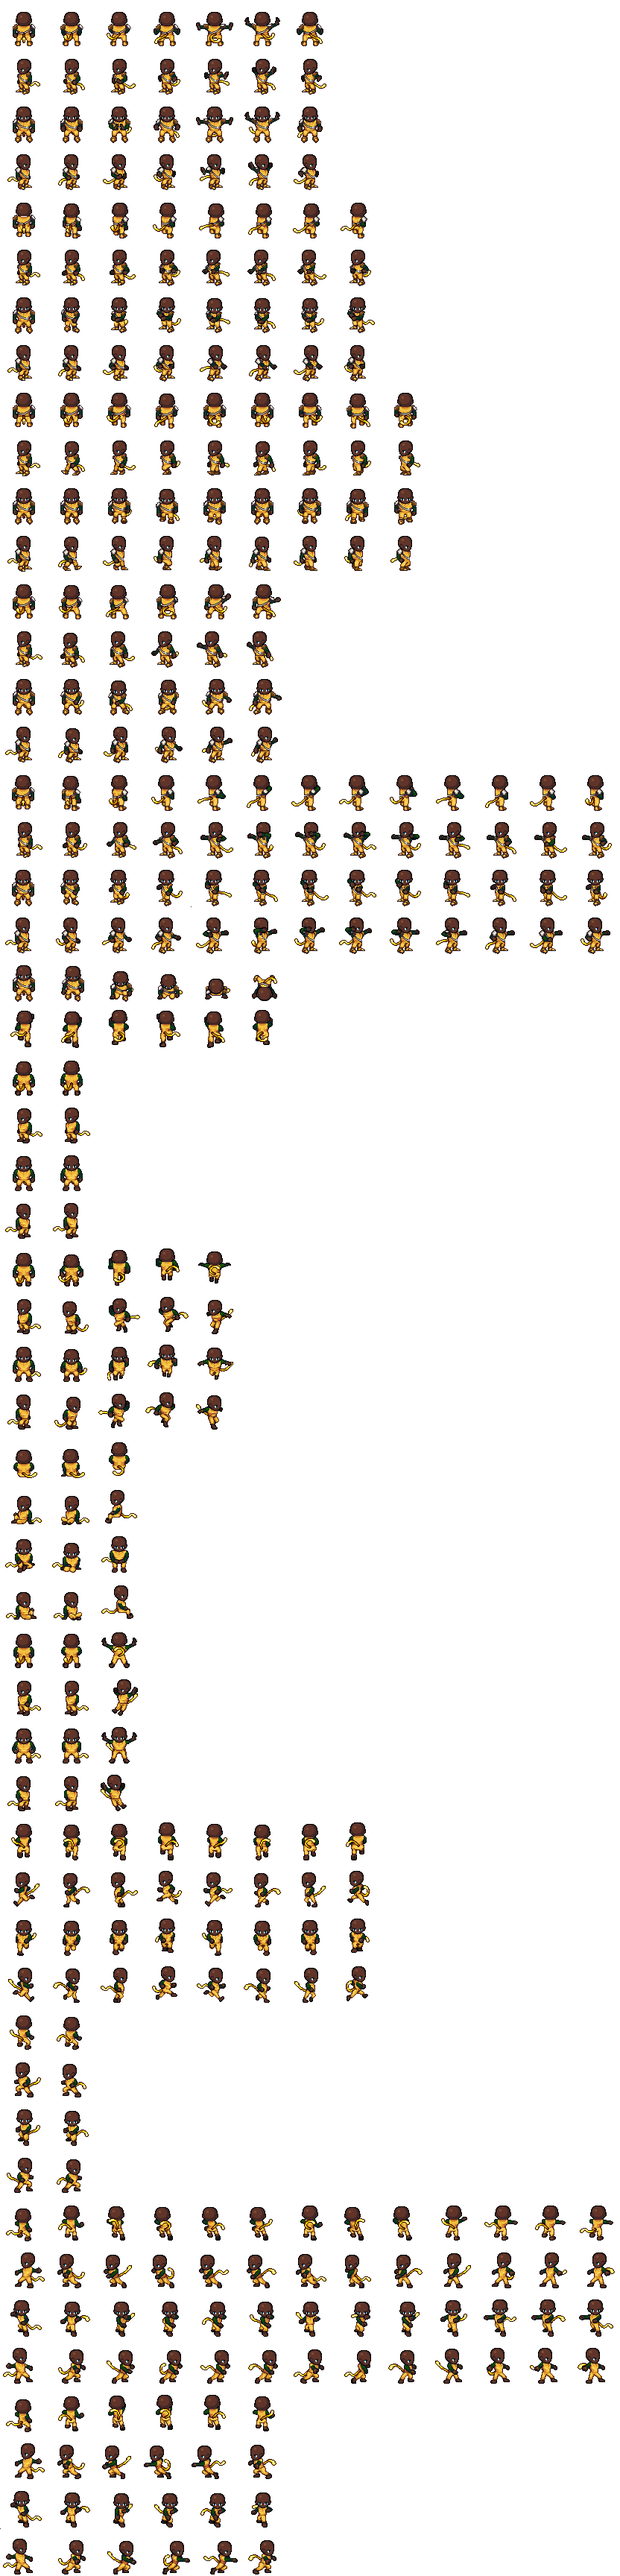
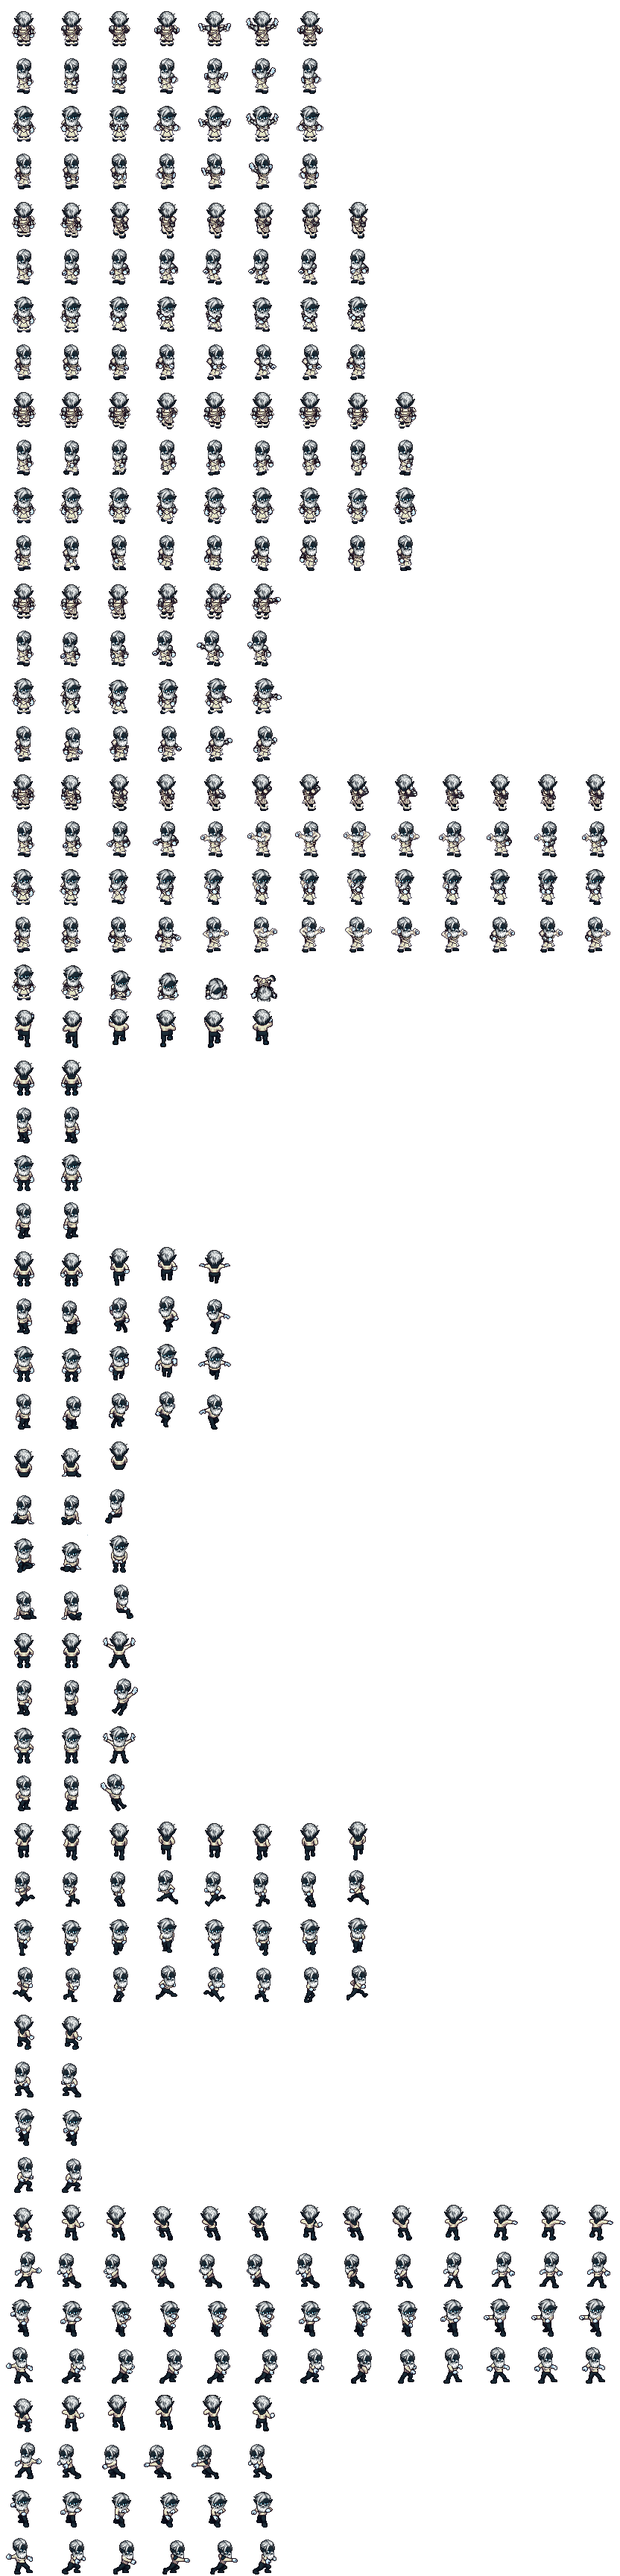
set up the bombbb

diff --git a/client/components/game.js b/client/components/game.js
@@ -1,27 +1,41 @@
-import { Store, useEffect, useRef } from "../framework/main.js";
+import { Store, useEffect, useRef, useState } from "../framework/main.js";
 import { jsx } from "../framework/main.js";
 import { store } from "./lobby.js";
 import { map } from "./map.js";
 
 export function game() {
   let frameIndex = 0;
-  const frameWidth = 64;
-  const frameHeight = 64;
   const FRAMES = {
     ArrowRight: { row: 11, col: [0, 1, 2, 3, 4, 5, 6, 7, 8] },
     ArrowLeft: { row: 9, col: [0, 1, 2, 3, 4, 5, 6, 7, 8] },
     ArrowUp: { row: 8, col: [0, 1, 2, 3, 4, 5, 6, 7, 8] },
     ArrowDown: { row: 10, col: [0, 1, 2, 3, 4, 5, 6, 7, 8] },
   };
+  const [bombs, setBombs] = useState([])
   const eventKey = useRef(null);
-  const bomRef = useRef(null);
+  const bombRef = useRef(null);
   const playersRef = [useRef(null), useRef(null), useRef(null), useRef(null)];
 
   const mapData = store.get().collisionMap;
 
+  console.log("ferfmlkrmfmrefmrekfmlkermfkl", bombs);
   function handleKeyDown(e) {
+    console.log(e.key);
+
     if (FRAMES[e.key]) {
       eventKey.current = e.key;
+    }
+    if (e.key === " ") {
+
+      const pl = playersRef[0].current.getBoundingClientRect()
+      const b = {
+        top: pl.top,
+        left: pl.left,
+      }
+      setBombs(prev => {
+        prev.push(b)
+        return prev
+      })
     }
   }
 
@@ -35,6 +49,22 @@ export function game() {
   // SPRITE DATA
 
   useEffect(() => {
+
+    // bomb 
+    let bomb = false;
+    let bombe = null;
+    let colb = 0;
+    const colsbomb = 5;
+    const rowsbomb = 1;
+    let bombFrameIndex = 0;
+    let animationTimerbomb = 0;
+    let animationSpeedbomb = 300
+    const frameWidthbomb = 50;
+    const frameHeightbomb = 50;
+    const bombFrames = { bomb: { row: 0, col: [0, 1, 2, 3, 4] } }
+    // player
+    const frameWidth = 64;
+    const frameHeight = 64;
     const playerEl = playersRef[0].current;
     let lastTime = 0;
     let animationTimer = 0;
@@ -87,6 +117,34 @@ export function game() {
       const delta = timeStamp - lastTime;
       lastTime = timeStamp;
 
+      if (bombRef.current) {
+        const maxFrames = bombFrames.bomb.col.length; // = 5
+        if (bombFrameIndex >= maxFrames) {
+          bombFrameIndex = 0;
+          bombRef.current.remove();
+          bombRef.current = null;
+          bomb = false;
+        } else {
+
+          const col = bombFrameIndex;
+
+
+          const frameX = col * frameWidthbomb;
+
+          bombRef.current.style.backgroundPosition = `-${frameX}px`;
+        }
+        animationTimerbomb += delta;
+        if (animationTimerbomb > animationSpeedbomb) {
+          animationTimerbomb = 0;
+          bombFrameIndex++
+
+        }
+      }
+
+
+
+
+
       if (eventKey.current) {
         const anim = FRAMES[eventKey.current];
         const col = anim.col[frameIndex];
@@ -96,10 +154,9 @@ export function game() {
         const frameX = col * frameWidth;
         const frameY = row * frameHeight;
 
-        playerEl.style.backgroundPosition = `-${frameX + 5}px -${
-          frameY + 13
-        }px`;
-        
+        playerEl.style.backgroundPosition = `-${frameX + 5}px -${frameY + 13
+          }px`;
+
         // movement with deltaTime
         const moveDist = speed * delta;
 
@@ -175,6 +232,7 @@ export function game() {
       autoFocus: true,
       tabIndex: 0,
     },
-    map(playersRef, bomRef)
+    map(playersRef),
+    ...bombs.map((b) => jsx("div", { className: "bomb", style: { top: `${b.top}px`, left: `${b.left}px` }, ref: bombRef }))
   );
 }

diff --git a/client/assets/css/style.css b/client/assets/css/style.css
@@ -14,7 +14,7 @@ body {
   align-items: center;
   min-height: 100vh;
   margin: 0;
-  padding: 20px;
+
 }
 
 .game-container {
@@ -706,16 +706,30 @@ p[style*="color: red"],
   width: 50px;
   height: 64px;
   z-index: 100;
-  background-position: -5px -13px;
+  background-position: -5px -15px;
   background-repeat: no-repeat;
   image-rendering: pixelated;
 }
 
-.player0{
+.bomb {
+  z-index: 10000000000000000000;
+  position: absolute;
+  width: 50px;
+  height: 50px;
+  background-image: url("../images/bomb10.png");
+  background-repeat: no-repeat;
+  image-rendering: pixelated;
+  background-size: 250px 250px;
+  background-position: 0px;
+  border: 2px solid rgb(81, 255, 0);
+}
+
+.player0 {
   background-image: url("../images/player1.png");
 }
-.player1{
-  background-image: url("../images/player1.png");
+
+.player1 {
+  background-image: url("../images/player0.png");
 }
 
 .game-container {

diff --git a/server/server.js b/server/server.js
@@ -43,7 +43,7 @@ function broadcastRoom(room, obj) {
 function startGameTimer(room) {
   if (room.players.length <= 1) return;
 
-  if (room.players.length === 2) room.timeLeft = 5;
+  if (room.players.length === 2) room.timeLeft = 1;
   if (room.players.length === 4) room.timeLeft = 10;
 
   if (room.timer) clearInterval(room.timer);

diff --git a/client/components/move.js b/client/components/move.js
@@ -24,7 +24,6 @@ let speed = 0.1;
 let currentKey = null;
 
 document.addEventListener("keydown", (e) => {
-  console.log("fjerfgrefkerkferfre");
   
     if (FRAMES[e.key]) {
         currentKey = e.key;
